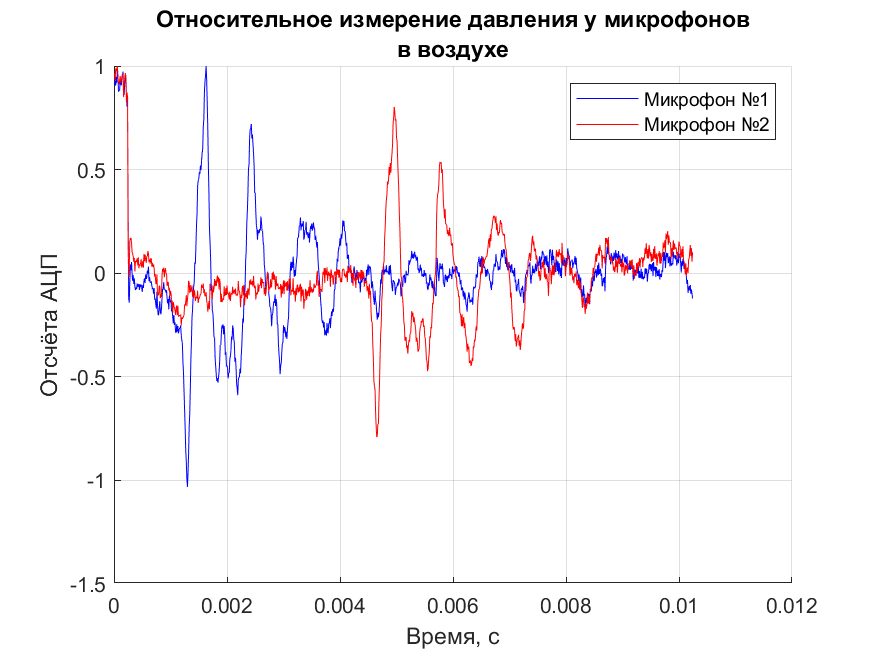
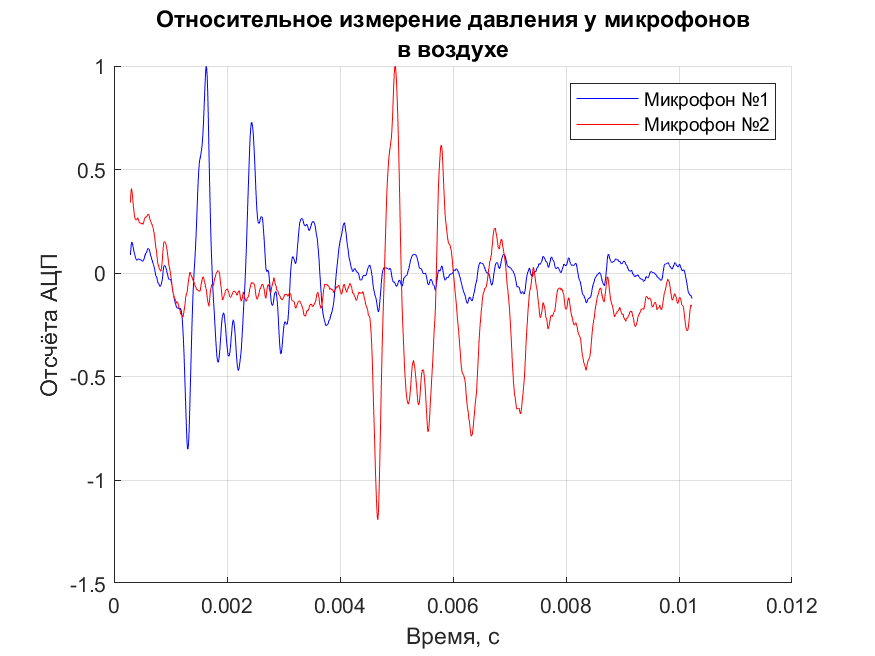
доделанные графики

diff --git a/Graphics/Script.m b/Graphics/Script.m
@@ -10,17 +10,34 @@ Breath = BreathI.data;
 Freq = FreqI.data;
 Temp = TempI.data;
 Time = TimeI.data;
-Water = WaterI.data;
-
+vFW = WaterI.data;
+[s1,s2] = size(Air);
+Traw = transpose(linspace(0, Time, s1));
 T = (1:size(Air(:,1)))/Freq;
 
 hold all;
 
-cAir1 = polyfit(T,Air(:,1),1);
-cAir2 = polyfit(T,Air(:,2),1);
-AirO(:,1) = Air(:,1) - polyval(cAir1,T)';
-AirO(:,2) = Air(:,2) - polyval(cAir2,T)';
-AirNorm = AirO ./ max(AirO);
+windowSize = 5;
+b = (1 / windowSize) * ones(1, windowSize);
+a = 1;
+
+airFiltered = filter(b, a, Air());
+breathFiltered = filter(b, a, Breath());
+
+start = 30;
+
+airFiltered = airFiltered(start:end, :);
+breathFiltered = breathFiltered(start:end, :);
+T = Traw(start:end);
+
+cAir = polyfit(T, airFiltered(:, 1), 3);
+cBreath = polyfit(T, breathFiltered(:, 1), 3);
+
+air = airFiltered - polyval(cAir, T);
+AirNorm = air ./ max(air);
+
+breath = breathFiltered - polyval(cBreath, T);
+BreathNorm = breath ./ max(breath);
 plot(T,AirNorm(:,1),'Color',[0,0,1],'LineWidth',0.5);
 plot(T,AirNorm(:,2),'Color',[1,0,0],'LineWidth',0.5);
 legend('Микрофон №1','Микрофон №2');
@@ -31,11 +48,7 @@ title(["Относительное измерение давления у мик
 saveas(gca,"air.png");
 hold off;
 
-cBreath1 = polyfit(T,Breath(:,1),1);
-cBreath2 = polyfit(T,Breath(:,2),1);
-BreathO(:,1) = Breath(:,1) - polyval(cBreath1,T)';
-BreathO(:,2) = Breath(:,2) - polyval(cBreath2,T)';
-BreathNorm = BreathO ./ max(BreathO);
+
 plot(T,BreathNorm(:,1),'Color',[0,0,1],'LineWidth',0.5);
 hold all;
 plot(T,BreathNorm(:,2),'Color',[1,0,0],'LineWidth',0.5);
@@ -46,3 +59,30 @@ ylabel("Отсчёта АЦП");
 title(["Относительное измерение давления у микрофонов","в воздухе из лёгких"]);
 saveas(gca,"breath.png");
 
+mA = find(AirNorm == max(AirNorm));
+mB = find(BreathNorm == max(BreathNorm));
+tA1 = T(mA(1));
+tA2 = T(mA(2)-995);
+tB1 = T(mB(1));
+tB2 = T(mB(2)-995);
+vA = 1.158/(tA2-tA1);
+vB = 1.158/(tB2-tB1);
+temp = Temp + 273.14;
+x_CO2 = linspace(0, 0.02);
+q = 1 - vFW - x_CO2;
+mu = 28.97.*q + 18.01*vFW + 44.01.*x_CO2;
+R = 8.314;
+g = (28.97*1.0036.*q + 18.01*1.863*vFW + 44.01*0.838.*x_CO2)./(28.97*0.7166.*q + 18.01*1.403*vFW + 44.01*0.649.*x_CO2);
+v = sqrt(1000 * R .* g * temp ./ mu);
+v11 = ones(100)*vB;
+
+hold off;
+plot(x_CO2,v,'b',x_CO2,v11,'r');
+c0 = polyfit(x_CO2, v, 1);
+x0 = (v11(1,1)-c0(2))/c0(1);
+grid on;
+xlabel("Доля CO_2");
+ylabel("Скорость звука, м/с");
+title({["Зависимость скорости звука от объёмной доли CO_2"],['Коорд. точки пересечения: (', num2str(x0),',', num2str(v(1,1)),')']});
+legend('Скорость звука в зависимости от содержания CO_{2}', 'Рассчитанная экспериментальная скорость звука');
+saveas(gca,"result.png");
